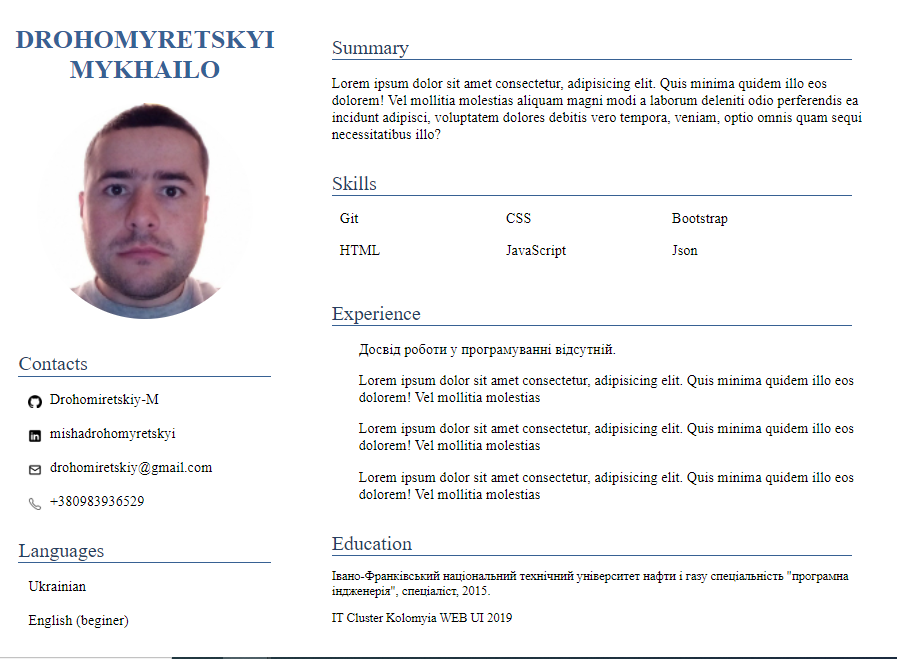
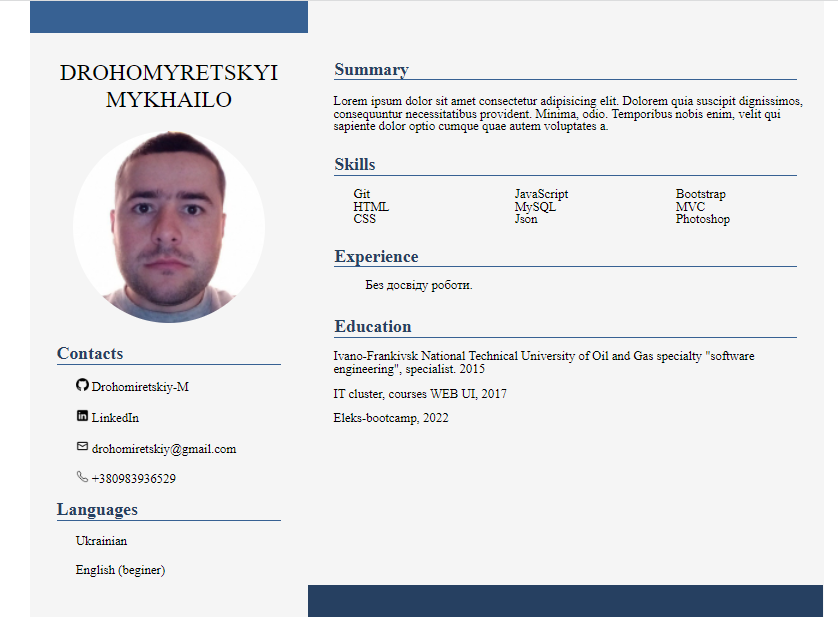
apdate view CV

diff --git a/index.html b/index.html
@@ -5,85 +5,96 @@
   <meta charset="UTF-8">
   <meta http-equiv="X-UA-Compatible" content="IE=edge">
   <meta name="viewport" content="width=device-width, initial-scale=1.0">
+  <link rel="stylesheet" href="./styles/reset.css">
   <link rel="stylesheet" href="./styles/style.css">
-  <title>CV Drohomiretskiy M</title>
+  <title>CV project by Misha Drohomyretskyi</title>
 </head>
 
 <body>
-  <main>
-    <h1 class="author-name">Drohomyretskyi Mykhailo </h1>
-    <img class="author-foto" src="./MyFoto.jpg" alt="Фото автора">
-    <section>
-      <p class="title">Contacts</p>
-      <ul class="contacts-list">
-        <li>Drohomiretskiy-M</li>
-        <li>mishadrohomyretskyi</li>
-        <li>drohomiretskiy@gmail.com</li>
-        <li>+380983936529</li>
-      </ul>
+  <main class="color-main-content">
+    <section class="left-section">
+      <div class="decor-block-top color-blue-100"></div>
+      <h1 class="ful-name">Drohomyretskyi Mykhailo</h1>
+      <img class="author-foto" src="./img/MyFoto.jpg" alt="фото автора">
+      <article class="contacts">
+        <h2 class="title color-text-title">
+          Contacts
+        </h2>
+        <ul class="contact-list">
+          <li>
+            <img src="./img/icon/icon_github.png" alt="gitHub icon">
+            <a href="https://github.com/Drohomiretskiy-M" target="_blank">Drohomiretskiy-M</a>
+          </li>
+          <li>
+            <img src="./img/icon/icon_linkedin.png" alt="linkedin icon">
+            <a href="https://www.linkedin.com/in/mishadrohomyretskyi/" target="_blank">LinkedIn</a>
+          </li>
+          <li><img src="./img/icon/icon_mail.png" alt="mail icon">
+            drohomiretskiy@gmail.com
+          </li>
+          <li><img src="./img/icon/icon_phone.png" alt="phone icon">
+            +380983936529
+          </li>
+        </ul>
+      </article>
+      <article class="languages">
+        <h2 class="title color-text-title">
+          Languages
+        </h2>
+        <ul class="languages-list">
+          <li>Ukrainian</li>
+          <li>English (beginer)</li>
+        </ul>
+      </article>
     </section>
-    <section>
-      <p class="title">Languages</p>
-      <ul class="languages-list">
-        <li>Ukrainian</li>
-        <li>English (beginer)</li>
-      </ul>
+    <section class="rigth-section">
+      <div class="decor-block-hiden color-main-content"></div>
+      <article class="summary">
+        <h2 class="title color-text-title">
+          Summary
+        </h2>
+        <p>Lorem ipsum dolor sit amet consectetur adipisicing elit.
+          Dolorem quia suscipit dignissimos, consequuntur
+          necessitatibus provident. Minima, odio.
+          Temporibus nobis enim, velit qui sapiente
+          dolor optio cumque quae autem voluptates a.</p>
+      </article>
+      <article class="skills">
+        <h2 class="title color-text-title">
+          Skills
+        </h2>
+        <ul class="skills-list">
+          <li>Git</li>
+          <li>HTML</li>
+          <li>CSS
+          </li>
+          <li>JavaScript</li>
+          <li>MySQL</li>
+          <li>Json</li>
+          <li>Bootstrap</li>
+          <li>MVC</li>
+          <li>Photoshop</li>
+        </ul>
+      </article>
+      <article class="experience">
+        <h2 class="title color-text-title">
+          Experience
+        </h2>
+        <p>Без досвіду роботи.</p>
+
+      </article>
+      <article class="education">
+        <h2 class="title color-text-title">
+          Education
+        </h2>
+        <p>Ivano-Frankivsk National Technical University of Oil and Gas
+          specialty "software engineering", specialist. 2015</p>
+        <p>IT cluster, courses WEB UI, 2017</p>
+        <p>Eleks-bootcamp, 2022</p>
+      </article>
+      <div class="decor-block-bottom color-blue-200"></div>
     </section>
   </main>
-  <aside>
-    <div class="summary">
-      <p class="title">Summary</p>
-      <p>Lorem ipsum dolor sit amet consectetur, adipisicing elit.
-        Quis minima quidem illo eos dolorem! Vel mollitia molestias
-        aliquam magni modi a laborum deleniti odio perferendis
-        ea incidunt adipisci, voluptatem dolores debitis vero
-        tempora, veniam, optio omnis quam sequi necessitatibus
-        illo?</p>
-    </div>
-    <div class="scills">
-      <p class="title">Skills</p>
-      <div class="wrap">
-        <div class="textcols-item">
-          <p>Git</p>
-          <p>HTML</p>
-        </div>
-        <div class="textcols-item">
-          <p>CSS</p>
-          <p>JavaScript</p>
-        </div>
-        <div class="textcols-item">
-          <p>Bootstrap</p>
-          <p>Json</p>
-        </div>
-      </div>
-
-    </div>
-    <div class="experiense">
-      <p class="title">Experience</p>
-      <div class="text-wrap">
-        <p>Досвід роботи у програмуванні відсутній.
-        </p>
-        <p>Lorem ipsum dolor sit amet consectetur, adipisicing elit.
-          Quis minima quidem illo eos dolorem! Vel mollitia molestias
-        </p>
-        <p>Lorem ipsum dolor sit amet consectetur, adipisicing elit.
-          Quis minima quidem illo eos dolorem! Vel mollitia molestias
-        </p>
-        <p>Lorem ipsum dolor sit amet consectetur, adipisicing elit.
-          Quis minima quidem illo eos dolorem! Vel mollitia molestias
-        </p>
-      </div>
-
-    </div>
-    <div class="educetion">
-      <p class="title">Education</p>
-      <p>Івано-Франківський національний технічний університет нафти і газу
-        спеціальність "програмна індженерія", спеціаліст, 2015. </p>
-      <p>
-        IT Cluster Kolomyia WEB UI 2019
-      </p>
-    </div>
-  </aside>
 </body>
 
 </html>

diff --git a/styles/style.css b/styles/style.css
@@ -1,21 +1,43 @@
+.color-blue-100 {
+    background-color: #376193;
+}
+
+.color-blue-200 {
+    background-color: #264061;
+}
+
+.color-main-content {
+    background-color: whitesmoke;
+}
+
+.color-text-title {
+    color: #264061;
+}
+
 body {
-    position: absolute;
-    width: 992px;
-    height: 947px;
-    left: 224px;
-    top: 0px;
-    background: #FFFFFF;
     font-family: 'Roboto';
     font-style: normal;
     font-weight: 400;
 }
 
 main {
+    width: 992px;
+    margin: 0 auto;
+    display: flex;
+}
+
+.left-section {
     width: 347px;
 }
 
-.author-name {
-    color: #376193;
+.decor-block-top {
+    width: 347px;
+    height: 40px;
+}
+
+.ful-name {
+    margin-top: 32px;
+    text-align: center;
     font-size: 29px;
     line-height: 34px;
     text-align: center;
@@ -23,76 +45,88 @@ main {
 }
 
 .author-foto {
+    margin: 22px 54px;
     width: 240px;
-    margin-left: 54px;
     border-radius: 120px;
 }
 
 .title {
-    margin: 32px 33px 0 33px;
-    color: #264061;
+    border-bottom: 1px solid #376193;
+    margin: 0 33px;
     font-size: 22px;
     line-height: 26px;
-    border-bottom: 1px solid #376193;
+    font-weight: 600;
 }
 
-
-.contacts-list,
+.contact-list,
 .languages-list {
-    list-style: none;
-    margin-left: 4px;
+    margin: 15px 57px;
 }
 
-.contacts-list li,
+.contact-list li,
 .languages-list li {
-    margin-bottom: 19px;
+    font-size: 16px;
+    line-height: 19px;
+    margin-top: 17px;
 }
 
-.contacts-list :nth-last-child(4) {
-    background: url(../img/icon/icon_github.png) no-repeat 0 4px;
-    padding-left: 24px;
+.contact-list a {
+    color: black;
 }
 
-.contacts-list :nth-last-child(3) {
-    background: url(../img/icon/icon_linkedin.png) no-repeat 0 4px;
-    padding-left: 24px;
-}
-
-.contacts-list :nth-last-child(2) {
-    background: url(../img/icon/icon_mail.png) no-repeat 0 4px;
-    padding-left: 24px;
-}
-
-.contacts-list :nth-last-child(1) {
-    background: url(../img/icon/icon_phone.png) no-repeat 0 4px;
-    padding-left: 24px;
-}
-
-aside {
-    position: absolute;
-    left: 348px;
-    top: 0px;
+.right-section {
     width: 644px;
+    min-height: 3000px;
+    font-size: 16px;
+    line-height: 19px;
 }
 
-.textcols-item {
-    display: inline-block;
-    width: 30%;
+.summary {
+    margin-top: 32px;
 }
 
-.wrap {
-    padding-left: 42px;
+.summary p {
+    margin: 18px 0 0 32px;
 }
 
-.educetion {
-    font-size: 14px;
+.skills {
+    margin-top: 26px;
 }
 
-.summary p,
-.educetion p {
-    margin-left: 33px;
+.skills-list {
+    margin-left: 57px;
+    margin-top: 15px;
+    columns: 3;
+
 }
 
-.text-wrap p {
-    padding-left: 63px;
+.experience {
+    margin-top: 24px;
+}
+
+.experience p {
+    margin-top: 15px;
+    margin-left: 72px;
+
+}
+
+.education {
+    margin-top: 30px;
+}
+
+.education p {
+    margin-top: 15px;
+    margin-left: 32px;
+}
+
+.decor-block-hiden {
+    width: 644px;
+    height: 40px;
+}
+
+.decor-block-bottom {
+    width: 644px;
+    height: 40px;
+    margin-top: 200px;
+ 
 }

diff --git a/styles/reset.css b/styles/reset.css
@@ -1,0 +1,43 @@
+html, body, div, span, applet, object, iframe,
+h1, h2, h3, h4, h5, h6, p, blockquote, pre,
+a, abbr, acronym, address, big, cite, code,
+del, dfn, em, img, ins, kbd, q, s, samp,
+small, strike, strong, sub, sup, tt, var,
+b, u, i, center,
+dl, dt, dd, ol, ul, li,
+fieldset, form, label, legend,
+table, caption, tbody, tfoot, thead, tr, th, td,
+article, aside, canvas, details, embed, 
+figure, figcaption, footer, header, hgroup, 
+menu, nav, output, ruby, section, summary,
+time, mark, audio, video {
+	margin: 0;
+	padding: 0;
+	border: 0;
+	font-size: 100%;
+	font: inherit;
+	vertical-align: baseline;
+	text-decoration: none;
+}
+article, aside, details, figcaption, figure, 
+footer, header, hgroup, menu, nav, section {
+	display: block;
+}
+body {
+	line-height: 1;
+}
+ol, ul {
+	list-style: none;
+}
+blockquote, q {
+	quotes: none;
+}
+blockquote:before, blockquote:after,
+q:before, q:after {
+	content: '';
+	content: none;
+}
+table {
+	border-collapse: collapse;
+	border-spacing: 0;
+}
